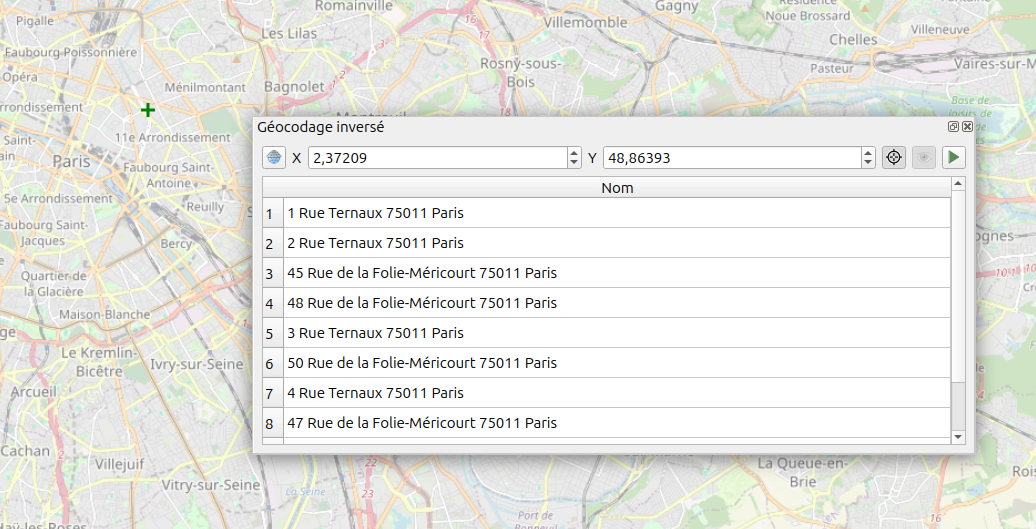
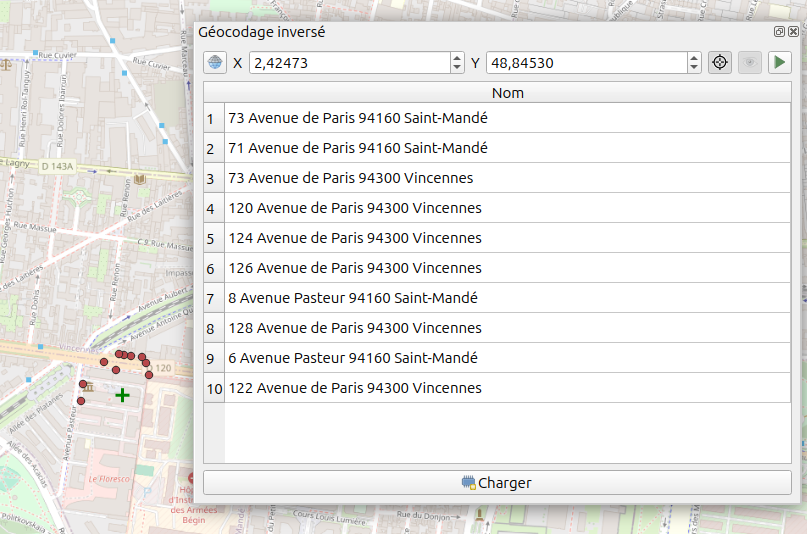
feat(reverse geocoding): add documentation and update translation

diff --git a/french_locator_filter/resources/i18n/french_locator_filter_fr.ts b/french_locator_filter/resources/i18n/french_locator_filter_fr.ts
@@ -17,9 +17,14 @@
         <translation></translation>
     </message>
     <message>
-        <location filename="../../gui/wdg_reverse_geocoding.ui" line="23"/>
+        <location filename="../../gui/wdg_reverse_geocoding.ui" line="20"/>
         <source>...</source>
         <translation></translation>
+    </message>
+    <message>
+        <location filename="../../gui/wdg_reverse_geocoding.ui" line="33"/>
+        <source>Charger</source>
+        <translation>Charger</translation>
     </message>
 </context>
 <context>
@@ -176,6 +181,14 @@
         <location filename="../../core/locator_filter/rest_api_locator_filter.py" line="90"/>
         <source>search term is matching the prefix.</source>
         <translation>le terme de recherche correspond au préfixe.</translation>
+    </message>
+</context>
+<context>
+    <name>ReverseGeocodingWidget</name>
+    <message>
+        <location filename="../../gui/wdg_reverse_geocoding.py" line="116"/>
+        <source>Résultats géocodage inversé</source>
+        <translation>Résultats géocodage inversé</translation>
     </message>
 </context>
 <context>

diff --git a/french_locator_filter/resources/i18n/french_locator_filter_en.ts b/french_locator_filter/resources/i18n/french_locator_filter_en.ts
@@ -17,9 +17,14 @@
         <translation></translation>
     </message>
     <message>
-        <location filename="../../gui/wdg_reverse_geocoding.ui" line="23"/>
+        <location filename="../../gui/wdg_reverse_geocoding.ui" line="20"/>
         <source>...</source>
         <translation></translation>
+    </message>
+    <message>
+        <location filename="../../gui/wdg_reverse_geocoding.ui" line="33"/>
+        <source>Charger</source>
+        <translation>Load</translation>
     </message>
 </context>
 <context>
@@ -176,6 +181,14 @@
         <location filename="../../core/locator_filter/rest_api_locator_filter.py" line="90"/>
         <source>search term is matching the prefix.</source>
         <translation>search term is matching the prefix.</translation>
+    </message>
+</context>
+<context>
+    <name>ReverseGeocodingWidget</name>
+    <message>
+        <location filename="../../gui/wdg_reverse_geocoding.py" line="116"/>
+        <source>Résultats géocodage inversé</source>
+        <translation>Reverse geocoding results</translation>
     </message>
 </context>
 <context>

diff --git a/docs/usage/fr_how_to_use.md b/docs/usage/fr_how_to_use.md
@@ -41,6 +41,8 @@ Un dockwidget est affiché permettant de sélectionner un point sur la carte et 
 
 ![Géocodage inversé](/_static/images/french_locator_reverse_geocode_widget.png "Géocodage inversé")
 
+Il est possible de charger le résultat dans une couche temporaire via le bouton `Charger`.
+
 ----
 
 ## Réglages

diff --git a/docs/usage/en_how_to_use.md b/docs/usage/en_how_to_use.md
@@ -41,6 +41,8 @@ A dock widget is displayed allowing you to select a point on the map and request
 
 ![Reverse geocoding](/_static/images/french_locator_reverse_geocode_widget.png "Reverse geocoding")
 
+You can load results as temporary layer with `Load` button.
+
 ----
 
 ## Settings
